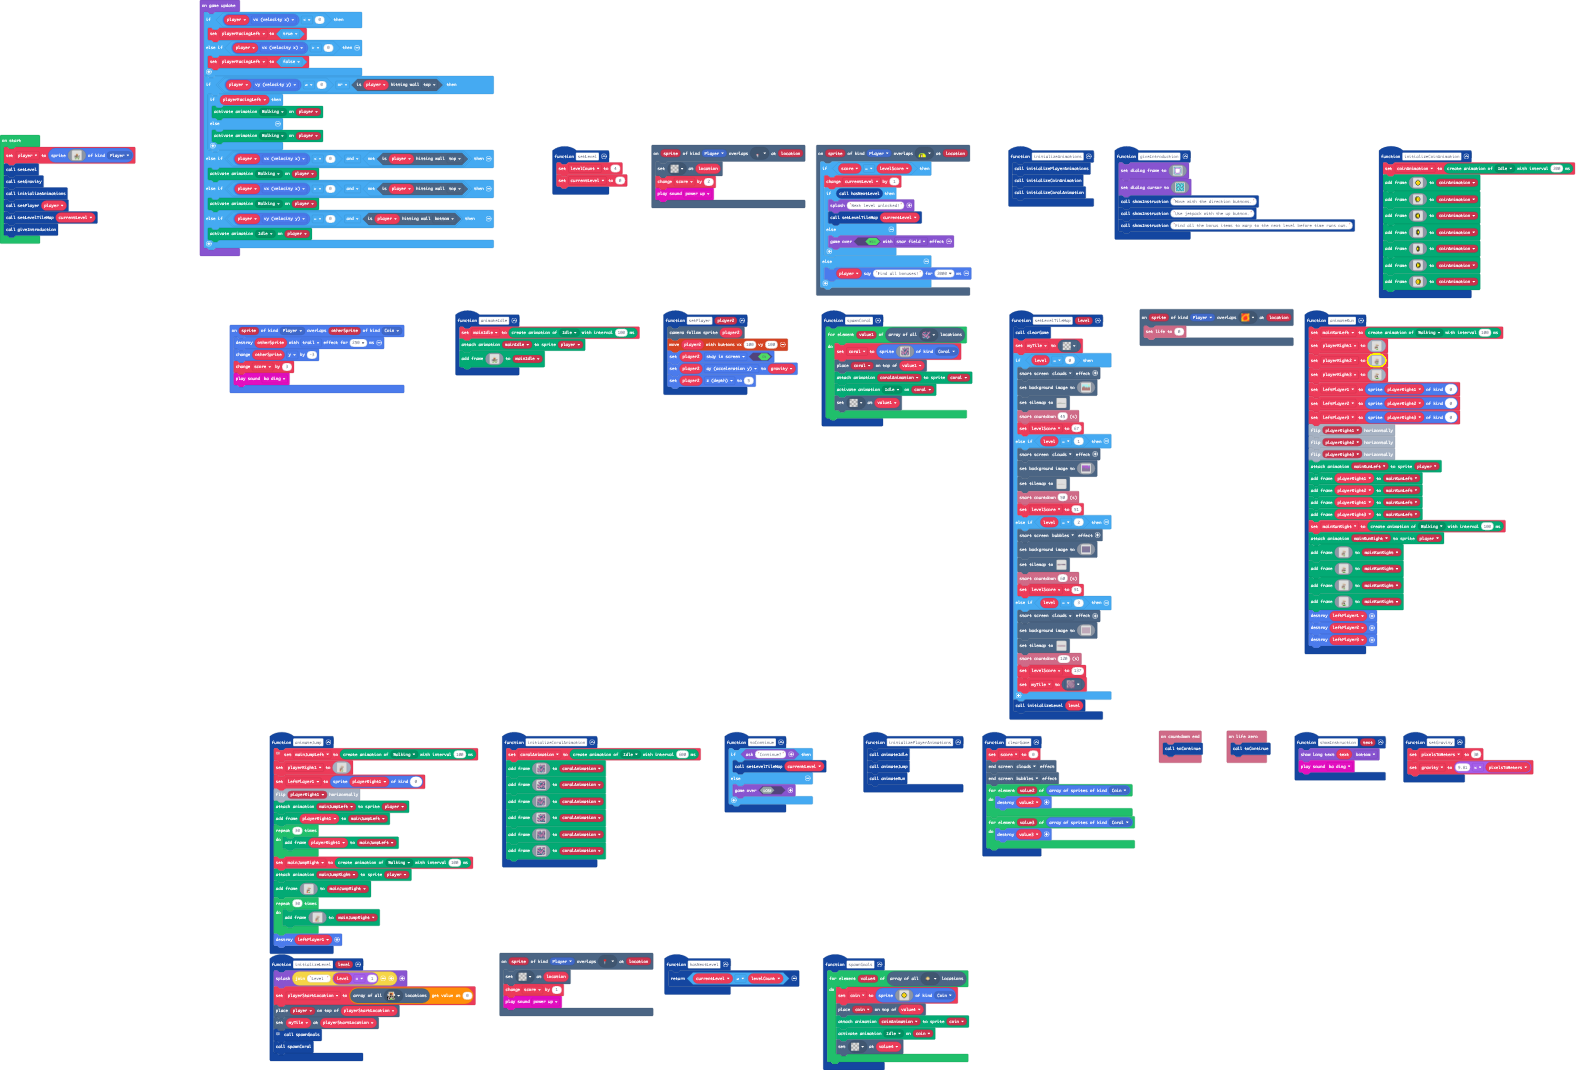
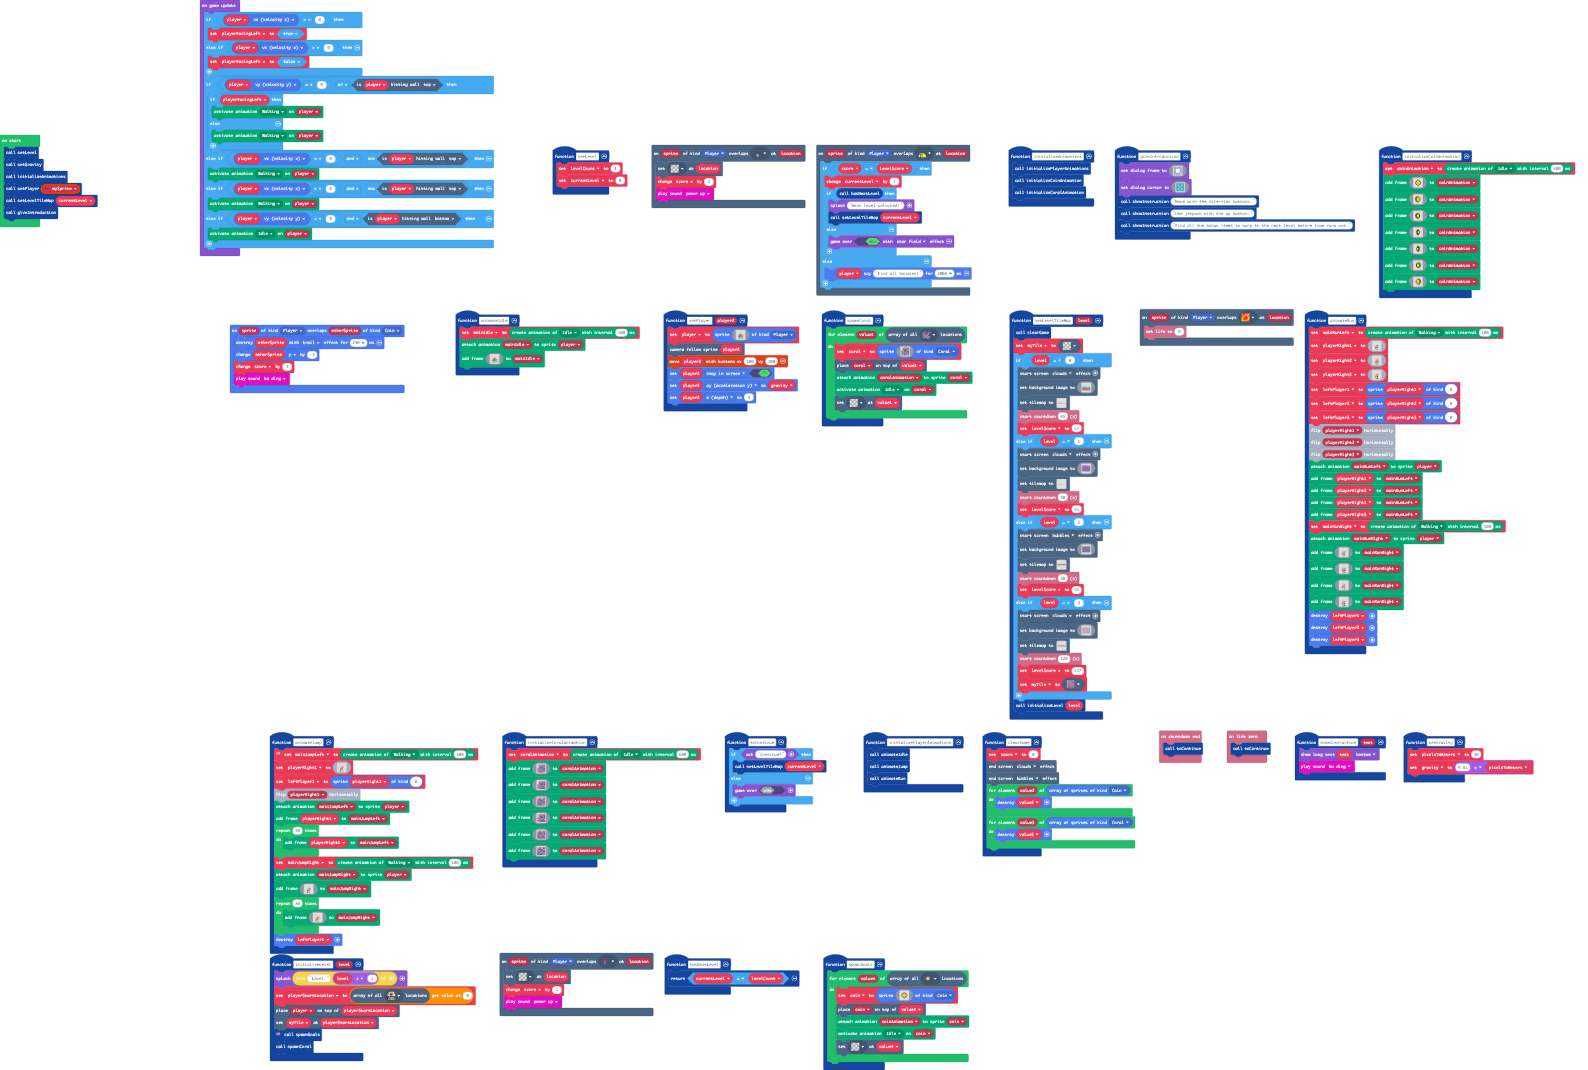
Update main.blocks, main.ts

Changed region(s): [[0.4011, 0.2776, 0.5246, 0.4009], [0.0, 0.1234, 0.0926, 0.2467]]

diff --git a/main.ts b/main.ts
@@ -257,12 +257,46 @@ function animateIdle () {
         .........7777.......7777........
         `)
 }
-function setPlayer (player2: Sprite) {
-    scene.cameraFollowSprite(player2)
-    controller.moveSprite(player2, 100, 100)
-    player2.setFlag(SpriteFlag.StayInScreen, true)
-    player2.ay = gravity
-    player2.z = 5
+function setPlayer () {
+    player = sprites.create(img`
+        ................................
+        ................................
+        ................................
+        ................................
+        ................................
+        ................................
+        ................................
+        .............ddddddd............
+        ............ddddddddd...........
+        ...........d7ddddddd7d..........
+        ...........dd7ddddd7dd..........
+        ...........ddd7ddd7ddd..........
+        ...........ddd44444ddd..........
+        ...........dd44ff444dd..........
+        .........1.dd4ff1f44dd.1........
+        .........11dd4feef44dd11........
+        ........f111dd4ff44dd111f.......
+        .......ff1117ddddddd7111ff......
+        .......fffffdfff1fffdfffff......
+        ........dd.dddff1ffddd.dd.......
+        ........ff.ddddf1fdddd.ff.......
+        ........ff.dfdfdddfdfd.ff.......
+        .......fff.dffdddddffd.77.......
+        ......ffdfddffd777dffdd77.......
+        .......fffddfd77777dfddf........
+        ..........dddd77777dddd.f.f.....
+        ..........dddf77777fddd..f......
+        ..........ddddddddddddd.........
+        ..........fff.......fff.........
+        .........7777.......7777........
+        ........77777.......77777.......
+        .........7777.......7777........
+        `, SpriteKind.Player)
+    scene.cameraFollowSprite(player)
+    controller.moveSprite(player, 100, 100)
+    player.setFlag(SpriteFlag.StayInScreen, true)
+    player.ay = gravity
+    player.z = 5
 }
 function spawnCoral () {
     for (let value1 of tiles.getTilesByType(sprites.builtin.coral5)) {
@@ -1396,49 +1430,16 @@ let coral: Sprite = null
 let gravity = 0
 let mainIdle: animation.Animation = null
 let coinAnimation: animation.Animation = null
+let player: Sprite = null
 let levelScore = 0
 let score = 0
 let levelCount = 0
 let currentLevel = 0
-let player: Sprite = null
-player = sprites.create(img`
-    ................................
-    ................................
-    ................................
-    ................................
-    ................................
-    ................................
-    ................................
-    .............ddddddd............
-    ............ddddddddd...........
-    ...........d7ddddddd7d..........
-    ...........dd7ddddd7dd..........
-    ...........ddd7ddd7ddd..........
-    ...........ddd44444ddd..........
-    ...........dd44ff444dd..........
-    .........1.dd4ff1f44dd.1........
-    .........11dd4feef44dd11........
-    ........f111dd4ff44dd111f.......
-    .......ff1117ddddddd7111ff......
-    .......fffffdfff1fffdfffff......
-    ........dd.dddff1ffddd.dd.......
-    ........ff.ddddf1fdddd.ff.......
-    ........ff.dfdfdddfdfd.ff.......
-    .......fff.dffdddddffd.77.......
-    ......ffdfddffd777dffdd77.......
-    .......fffddfd77777dfddf........
-    ..........dddd77777dddd.f.f.....
-    ..........dddf77777fddd..f......
-    ..........ddddddddddddd.........
-    ..........fff.......fff.........
-    .........7777.......7777........
-    ........77777.......77777.......
-    .........7777.......7777........
-    `, SpriteKind.Player)
+let mySprite: Sprite = null
 setLevel()
 setGravity()
+setPlayer()
 initializeAnimations()
-setPlayer(player)
 setLevelTileMap(currentLevel)
 giveIntroduction()
 game.onUpdate(function () {
